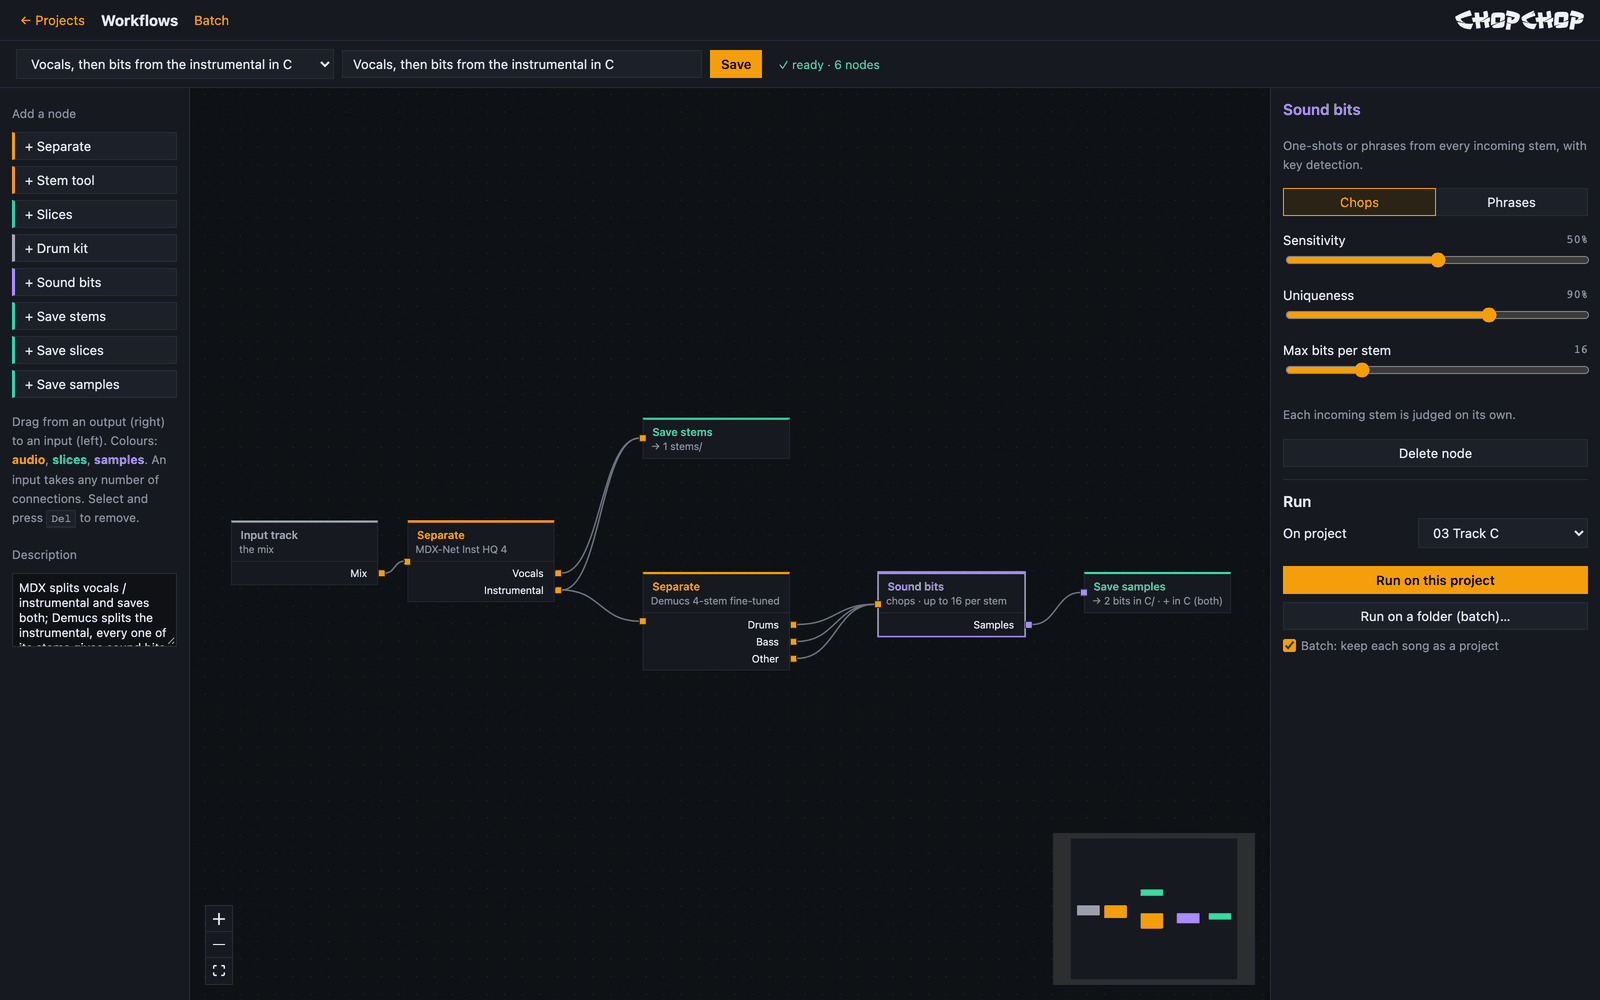
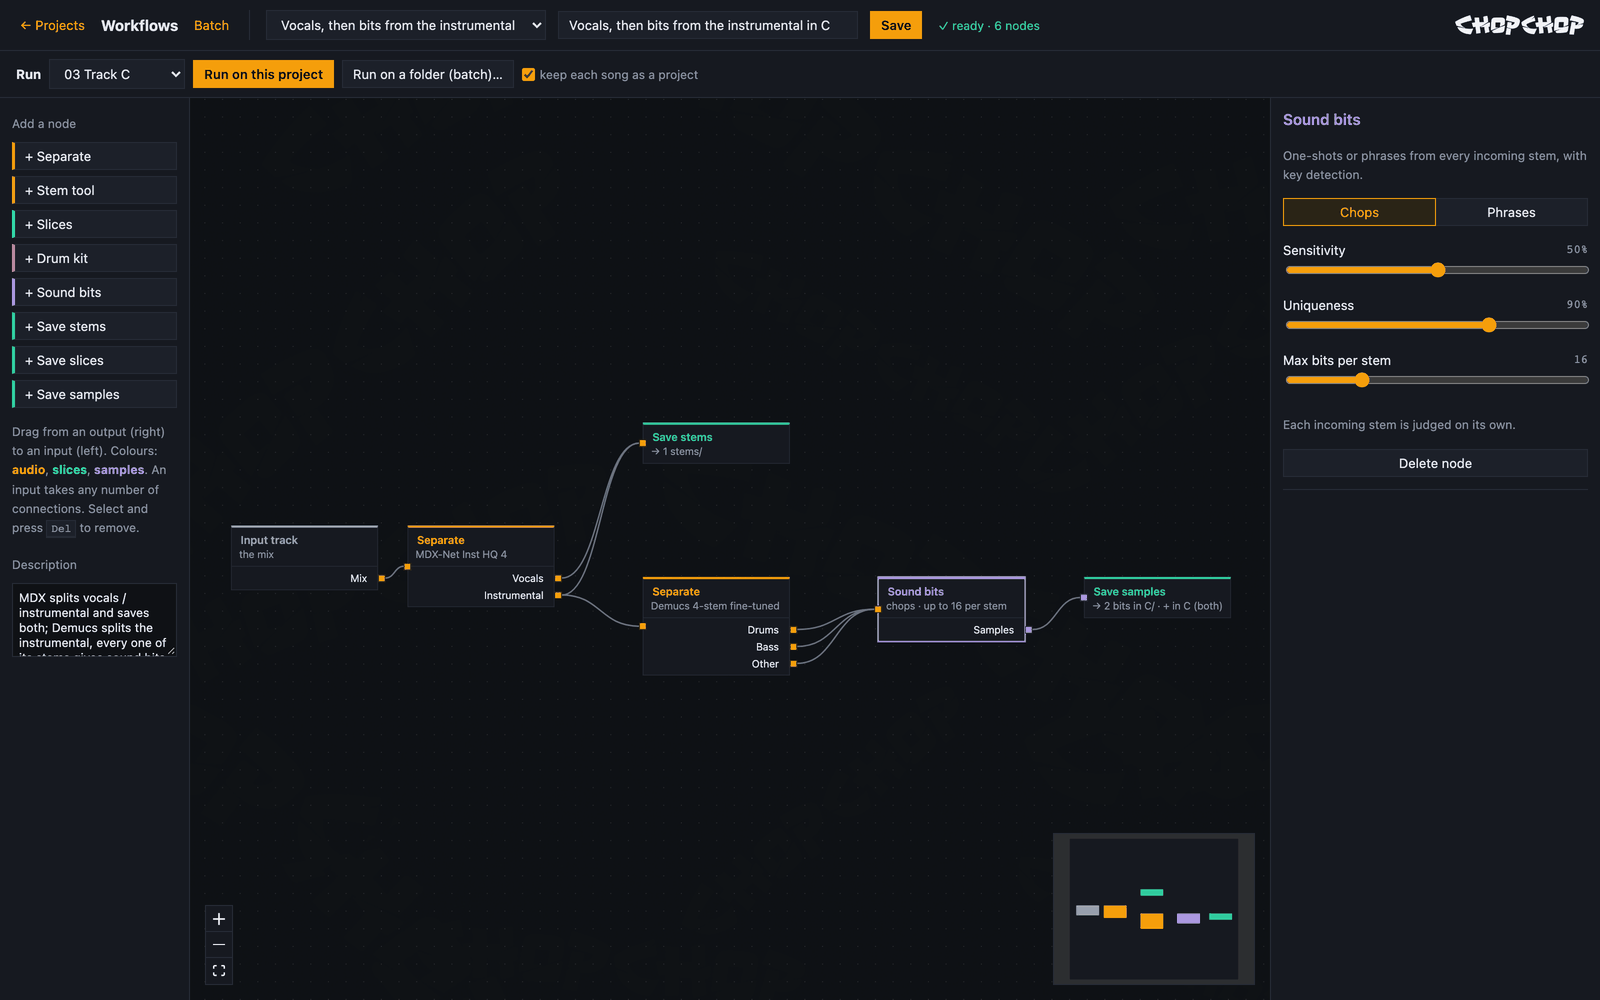
fix(workflow): navbar for run options

diff --git a/frontend/src/components/WorkflowsView.tsx b/frontend/src/components/WorkflowsView.tsx
@@ -224,24 +224,53 @@ function Workflows({ meta, onOpenProject }: { meta: Meta; onOpenProject: (pid: s
         <button className="link" onClick={() => (location.hash = '')}>← Projects</button>
         <b className="title">Workflows</b>
         <button className="link" onClick={() => (location.hash = '#/batch')}>Batch</button>
+        <span className="flows-sep" />
+      <select value={isSaved || presets.some((p) => p.name === name) ? name : ''} onChange={(e) => open(e.target.value)}>
+        {!isSaved && !presets.some((p) => p.name === name) && <option value="">(unsaved) {name}</option>}
+        {saved.length > 0 && <optgroup label="Saved">{saved.map((f) => <option key={f.name} value={f.name}>{f.name}</option>)}</optgroup>}
+        <optgroup label="Examples">{presets.map((f) => <option key={f.name} value={f.name}>{f.name}</option>)}</optgroup>
+        <option value="__new">+ New workflow</option>
+      </select>
+      <input className="flow-name" value={name} onChange={(e) => setName(e.target.value)} placeholder="Workflow name" />
+      <button className="primary" onClick={() => void save()}>Save</button>
+      {isSaved && <button onClick={() => void remove()}>Delete</button>}
+      <span className={`flow-status ${problem ? 'bad' : 'ok'}`} title={problem ?? undefined}>
+        {problem ? `⚠ ${problem}` : `✓ ready · ${nodeCount} nodes`}
+      </span>
         <div className="spacer" />
         {notice && <span className="notice">{notice}</span>}
         <Logo />
       </header>
 
-      <div className="flows-bar">
-        <select value={isSaved || presets.some((p) => p.name === name) ? name : ''} onChange={(e) => open(e.target.value)}>
-          {!isSaved && !presets.some((p) => p.name === name) && <option value="">(unsaved) {name}</option>}
-          {saved.length > 0 && <optgroup label="Saved">{saved.map((f) => <option key={f.name} value={f.name}>{f.name}</option>)}</optgroup>}
-          <optgroup label="Examples">{presets.map((f) => <option key={f.name} value={f.name}>{f.name}</option>)}</optgroup>
-          <option value="__new">+ New workflow</option>
+      <div className="flows-bar flows-run">
+        <b>Run</b>
+        <select value={target} onChange={(e) => setTarget(e.target.value)} title="Project to run on (its mix is the Input track)">
+          {projects.map((p) => <option key={p.id} value={p.id}>{p.name}</option>)}
         </select>
-        <input className="flow-name" value={name} onChange={(e) => setName(e.target.value)} placeholder="Workflow name" />
-        <button className="primary" onClick={() => void save()}>Save</button>
-        {isSaved && <button onClick={() => void remove()}>Delete</button>}
-        <span className={`flow-status ${problem ? 'bad' : 'ok'}`} title={problem ?? undefined}>
-          {problem ? `⚠ ${problem}` : `✓ ready · ${nodeCount} nodes`}
-        </span>
+        <button className="primary" disabled={busy || !target || !!problem} onClick={() => void runOnProject()}>
+          {busy ? 'Running…' : 'Run on this project'}
+        </button>
+        <button disabled={!!problem} onClick={() => void runAsBatch()}
+          title="Saves the workflow, then opens Batch with it selected">
+          Run on a folder (batch)…
+        </button>
+        <label className="check" title="Batches: keep each song as a project to open and tweak later">
+          <input type="checkbox" checked={keepProjects} onChange={(e) => setKeepProjects(e.target.checked)} />
+          keep each song as a project
+        </label>
+        <div className="flows-run-out">
+          {busy && <JobProgress job={job} fallback="Starting…" />}
+          {!busy && result && (
+            <div className="result run-result">
+              <span>{result.files} files{result.samples ? ` · ${result.samples} bits` : ''} saved to</span>
+              <span className="path" title={result.output}>{`\u200e${result.output}\u200e`}</span>
+              <button className="link" onClick={() => void api.reveal(result.output)}>Show folder</button>
+              <button className="link" onClick={() => onOpenProject(target)}>Open project</button>
+              {result.warnings?.length > 0 && <span className="warn small" title={result.warnings.join('\n')}> · ⚠ {result.warnings.length}</span>}
+            </div>
+          )}
+          {!busy && error && <div className="error">{error}</div>}
+        </div>
       </div>
 
       <div className="flows-body">
@@ -287,37 +316,6 @@ function Workflows({ meta, onOpenProject }: { meta: Meta; onOpenProject: (pid: s
             <div className="flow-inspector"><p className="tip">Select a node to see all its options.</p></div>
           )}
 
-          <section className="flow-run">
-            <h3>Run</h3>
-            <label className="field">
-              <span>On project</span>
-              <select value={target} onChange={(e) => setTarget(e.target.value)}>
-                {projects.map((p) => <option key={p.id} value={p.id}>{p.name}</option>)}
-              </select>
-            </label>
-            <button className="primary wide" disabled={busy || !target || !!problem} onClick={() => void runOnProject()}>
-              {busy ? 'Running…' : 'Run on this project'}
-            </button>
-            {busy && <JobProgress job={job} fallback="Starting…" />}
-            {result && (
-              <div className="result">
-                {result.files} files{result.samples ? ` · ${result.samples} bits` : ''} saved to{' '}
-                <span className="path" title={result.output}>{`\u200E${result.output}\u200E`}</span>{' '}
-                <button className="link" onClick={() => void api.reveal(result.output)}>Show folder</button>{' '}
-                <button className="link" onClick={() => onOpenProject(target)}>Open project</button>
-                {result.warnings?.length > 0 && <div className="warn small">{result.warnings.join(' · ')}</div>}
-              </div>
-            )}
-            <button className="wide" disabled={!!problem} onClick={() => void runAsBatch()}
-              title="Saves the workflow, then opens Batch with it selected">
-              Run on a folder (batch)…
-            </button>
-            <label className="check" title="Batches: keep each song as a project to open and tweak later">
-              <input type="checkbox" checked={keepProjects} onChange={(e) => setKeepProjects(e.target.checked)} />
-              Batch: keep each song as a project
-            </label>
-            {error && <div className="error">{error}</div>}
-          </section>
         </aside>
       </div>
     </div>

diff --git a/frontend/src/styles.css b/frontend/src/styles.css
@@ -411,8 +411,23 @@ body { background: var(--bg); }
 /* ---------- Workflows (node editor) ---------- */
 .flows { display: flex; flex-direction: column; height: 100vh; }
 .flows-bar { display: flex; align-items: center; gap: 8px; padding: 8px 16px; border-bottom: 1px solid var(--line); background: var(--panel); }
-.flows-bar .flow-name { width: 360px; }
-.flow-status { font-size: 12px; margin-left: 8px; max-width: 520px; overflow: hidden; text-overflow: ellipsis; white-space: nowrap; }
+.flows .topbar .flow-name { width: 300px; }
+.flows .topbar select { max-width: 280px; }
+.flows-sep { width: 1px; align-self: stretch; background: var(--line); margin: 0 4px; }
+/* Run bar: everything about running, on one line under the top bar. */
+.flows-run { min-height: 46px; flex-wrap: nowrap; }
+.flows-run select { max-width: 200px; }
+.flows-run .check { white-space: nowrap; margin: 0; }
+.flows-run-out { flex: 1; min-width: 0; display: flex; align-items: center; }
+.flows-run-out > * { flex: 1; min-width: 0; margin: 0; }
+.flows-run-out .job { display: flex; align-items: center; gap: 10px; }
+.flows-run-out .job .progress { flex: 1; min-width: 0; height: 26px; }
+.flows-run-out .job .progress span { white-space: nowrap; overflow: hidden; text-overflow: ellipsis; }
+.flows-run-out .job-meta { display: flex; gap: 8px; white-space: nowrap; margin: 0; }
+.flows-run-out .run-result { padding: 4px 10px; display: flex; align-items: center; gap: 8px; white-space: nowrap; }
+.flows-run-out .run-result .path { flex: 1; min-width: 0; display: block; overflow: hidden; text-overflow: ellipsis; }
+.flows-run-out .error { padding: 4px 10px; white-space: nowrap; overflow: hidden; text-overflow: ellipsis; }
+.flow-status { font-size: 12px; margin-left: 4px; max-width: 380px; overflow: hidden; text-overflow: ellipsis; white-space: nowrap; }
 .flow-status.ok { color: var(--ok); }
 .flow-status.bad { color: var(--danger); }
 .flows-body { flex: 1; min-height: 0; display: grid; grid-template-columns: 190px 1fr 330px; }
